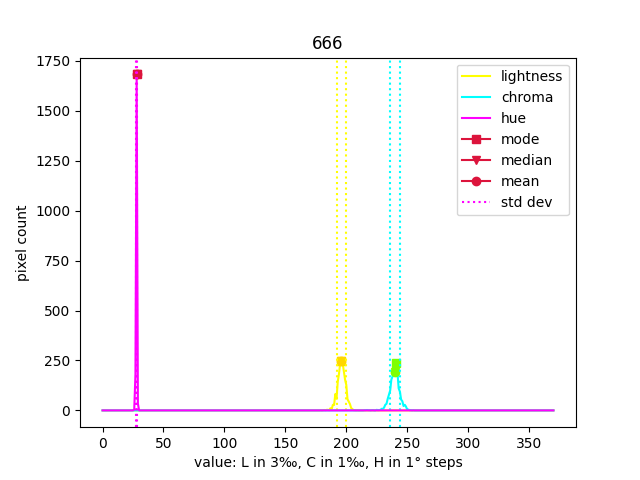
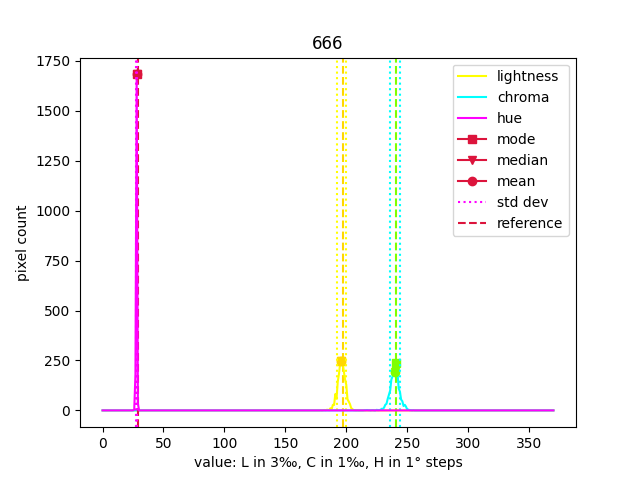
draw reference color values in plot

Changed region(s): [[0.6875, 0.125, 0.875, 0.5], [0.6875, 0.1562, 0.7188, 0.25]]

diff --git a/OklchPlotter.py b/OklchPlotter.py
@@ -3,15 +3,23 @@ from matplotlib import pyplot as plt
 import numpy as np
 
 from ThreadPic import ThreadPic
-from OklchConverter import Histogram
+from OklchConverter import Datum, Histogram
 
 
 class OklchPlotter:
-    def __init__(self, thread: ThreadPic):
-        self.thread = thread
-        self.lightness_stats = Plot_Stats(thread.oklch, 'l')
-        self.chroma_stats = Plot_Stats(thread.oklch, 'c')
-        self.hue_stats = Plot_Stats(thread.oklch, 'h')
+    def __init__(self, thread_pic: ThreadPic, reference: Datum=None):
+        self.thread_pic = thread_pic
+        if reference is None:
+            self.ref_lightness = None
+            self.ref_chroma = None
+            self.ref_hue = None
+        else:
+            self.ref_lightness = reference.lightness_for_hist
+            self.ref_chroma = reference.chroma_for_hist
+            self.ref_hue = reference.hue_for_hist
+        self.lightness_stats = Plot_Stats(thread_pic.oklch, self.ref_lightness, 'l')
+        self.chroma_stats = Plot_Stats(thread_pic.oklch, self.ref_chroma, 'c')
+        self.hue_stats = Plot_Stats(thread_pic.oklch, self.ref_hue,'h')
         self.x = None
         self.fig: plt.Figure
         self.ax: plt.Axes
@@ -20,52 +28,58 @@ class OklchPlotter:
     def label_axes(self):
         self.ax.set_xlabel('value: L in 3‰, C in 1‰, H in 1° steps')
         self.ax.set_ylabel('pixel count')
-        result = self.thread.thread_id
+        result = self.thread_pic.thread_id
         self.ax.set_title(result)
         print(result)
 
     def save(self, dir):
         if not os.path.isabs(dir):
             dir = './plots/' + dir
-        path = dir + '/plot_' + self.marker + '_' + self.thread.thread_id + '.png'
+        path = dir + '/plot_' + self.marker + '_' + self.thread_pic.thread_id + '.png'
         plt.savefig(path)
 
     def show(self):
         plt.show()
 
     def plot_lightness(self):
-        width = self.thread.oklch.upper_limit_lightness + 1
+        width = self.thread_pic.oklch.upper_limit_lightness + 1
         self.x = np.arange(width)
         self.fig, self.ax = plt.subplots()
         self.label_axes()
         yellow = Plot_Lines(self.x, self.ax, self.lightness_stats, 'y')
-        self.ax.legend((yellow.line, yellow.square, yellow.triangle, yellow.dot, yellow.dotted_vline_left),
-                  ('lightness', 'mode', 'median', 'mean', 'std dev'))
+        self.ax.legend((yellow.line, yellow.square, yellow.triangle, yellow.dot,
+                        yellow.dotted_vline_left, yellow.ref_vline),
+                  ('lightness', 'mode', 'median', 'mean',
+                   'std dev', 'reference'))
         self.marker = 'l'
 
     def plot_chroma(self):
-        width = self.thread.oklch.upper_limit_chroma + 1
+        width = self.thread_pic.oklch.upper_limit_chroma + 1
         self.x = np.arange(width)
         self.fig, self.ax = plt.subplots()
         self.label_axes()
         cyan = Plot_Lines(self.x, self.ax, self.chroma_stats, 'c')
-        self.ax.legend((cyan.line, cyan.square, cyan.triangle, cyan.dot, cyan.dotted_vline_left),
-                       ('chroma', 'mode', 'median', 'mean', 'std dev'))
+        self.ax.legend((cyan.line, cyan.square, cyan.triangle, cyan.dot,
+                        cyan.dotted_vline_left, cyan.ref_vline),
+                       ('chroma', 'mode', 'median', 'mean',
+                        'std dev', 'reference'))
         self.marker = 'c'
 
     def plot_hue(self):
-        width = self.thread.oklch.upper_limit_hue + 1
+        width = self.thread_pic.oklch.upper_limit_hue + 1
         self.x = np.arange(width)
         self.fig, self.ax = plt.subplots()
         self.label_axes()
         magenta = Plot_Lines(self.x, self.ax, self.hue_stats, 'm')
-        self.ax.legend((magenta.line, magenta.square, magenta.triangle, magenta.dot, magenta.dotted_vline_left),
-                       ('hue', 'mode', 'median', 'mean', 'std dev'))
+        self.ax.legend((magenta.line, magenta.square, magenta.triangle, magenta.dot,
+                        magenta.dotted_vline_left, magenta.ref_vline),
+                       ('hue', 'mode', 'median', 'mean',
+                        'std dev', 'reference'))
         self.marker = 'h'
 
     def plot_combo_lc(self):
         # When combining the functions, we correct for the differing domains. Chroma is the widest.
-        width = self.thread.oklch.upper_limit_chroma + 1
+        width = self.thread_pic.oklch.upper_limit_chroma + 1
         while len(self.lightness_stats.hist) < width:
             self.lightness_stats.hist.append(0)
         self.x = np.arange(width)
@@ -73,13 +87,15 @@ class OklchPlotter:
         self.label_axes()
         yellow = Plot_Lines(self.x, self.ax, self.lightness_stats, 'y')
         cyan = Plot_Lines(self.x, self.ax, self.chroma_stats, 'c')
-        self.ax.legend((yellow.line, cyan.line, cyan.square, cyan.triangle, cyan.dot, cyan.dotted_vline_left),
-                       ('lightness', 'chroma', 'mode', 'median', 'mean', 'std dev'))
+        self.ax.legend((yellow.line, cyan.line, cyan.square, cyan.triangle, cyan.dot,
+                        cyan.dotted_vline_left, cyan.ref_vline),
+                       ('lightness', 'chroma', 'mode', 'median', 'mean',
+                        'std dev', 'reference'))
         self.marker = 'lc'
 
     def plot_combo_lch(self):
         # When combining the functions, we correct for the differing domains. Chroma is the widest.
-        width = self.thread.oklch.upper_limit_chroma + 1
+        width = self.thread_pic.oklch.upper_limit_chroma + 1
         while len(self.lightness_stats.hist) < width:
             self.lightness_stats.hist.append(0)
         while len(self.hue_stats.hist) < width:
@@ -92,21 +108,22 @@ class OklchPlotter:
         magenta = Plot_Lines(self.x, self.ax, self.hue_stats, 'm')
         self.ax.legend((yellow.line, cyan.line, magenta.line,
                         magenta.square, magenta.triangle, magenta.dot,
-                        magenta.dotted_vline_left),
+                        magenta.dotted_vline_left, magenta.ref_vline),
                        ('lightness', 'chroma', 'hue',
                         'mode', 'median', 'mean',
-                        'std dev'))
+                        'std dev', 'reference'))
         self.marker = 'lch'
 
 
 class Plot_Stats:
-    def __init__(self, oklch: Histogram, mode: str):
+    def __init__(self, oklch: Histogram, reference, mode: str):
         if mode == 'l' or mode == 'c' or mode == 'h':
             self.mode = mode
         else:
             print('Invalid mode of Oklch Plotter Stats: ' + mode + ' - Needs to be either l, c or h.')
             return
         self.mode = mode
+        self.ref = reference
         if self.mode == 'l':
             self.hist = oklch.hist_lightness.copy()
             self.mode = oklch.mode_lightness
@@ -148,6 +165,7 @@ class Plot_Lines:
             return
         self.mode = mode
         if self.mode == 'y':
+            self.ref_vline = ax.axvline(stats.ref, color='gold', linestyle='--')
             self.line, = ax.plot(x, stats.hist, color='yellow')
             self.square, = ax.plot(stats.mode, stats.mode_val, marker='s', color='gold')
             self.triangle, = ax.plot(stats.median, stats.median_val, marker='v', color='gold')
@@ -155,6 +173,7 @@ class Plot_Lines:
             self.dotted_vline_left = ax.axvline(stats.stdev_left, color='yellow', linestyle=':')
             self.dotted_vline_right = ax.axvline(stats.stdev_right, color='yellow', linestyle=':')
         if self.mode == 'c':
+            self.ref_vline = ax.axvline(stats.ref, color='chartreuse', linestyle='--')
             self.line, = ax.plot(x, stats.hist, color='cyan')
             self.square, = ax.plot(stats.mode, stats.mode_val, marker='s', color='chartreuse')
             self.triangle, = ax.plot(stats.median, stats.median_val, marker='v', color='chartreuse')
@@ -162,6 +181,7 @@ class Plot_Lines:
             self.dotted_vline_left = ax.axvline(stats.stdev_left, color='cyan', linestyle=':')
             self.dotted_vline_right = ax.axvline(stats.stdev_right, color='cyan', linestyle=':')
         if self.mode == 'm':
+            self.ref_vline = ax.axvline(stats.ref, color='crimson', linestyle='--')
             self.line, = ax.plot(x, stats.hist, color='magenta')
             self.square, = ax.plot(stats.mode, stats.mode_val, marker='s', color='crimson')
             self.triangle, = ax.plot(stats.median, stats.median_val, marker='v', color='crimson')
